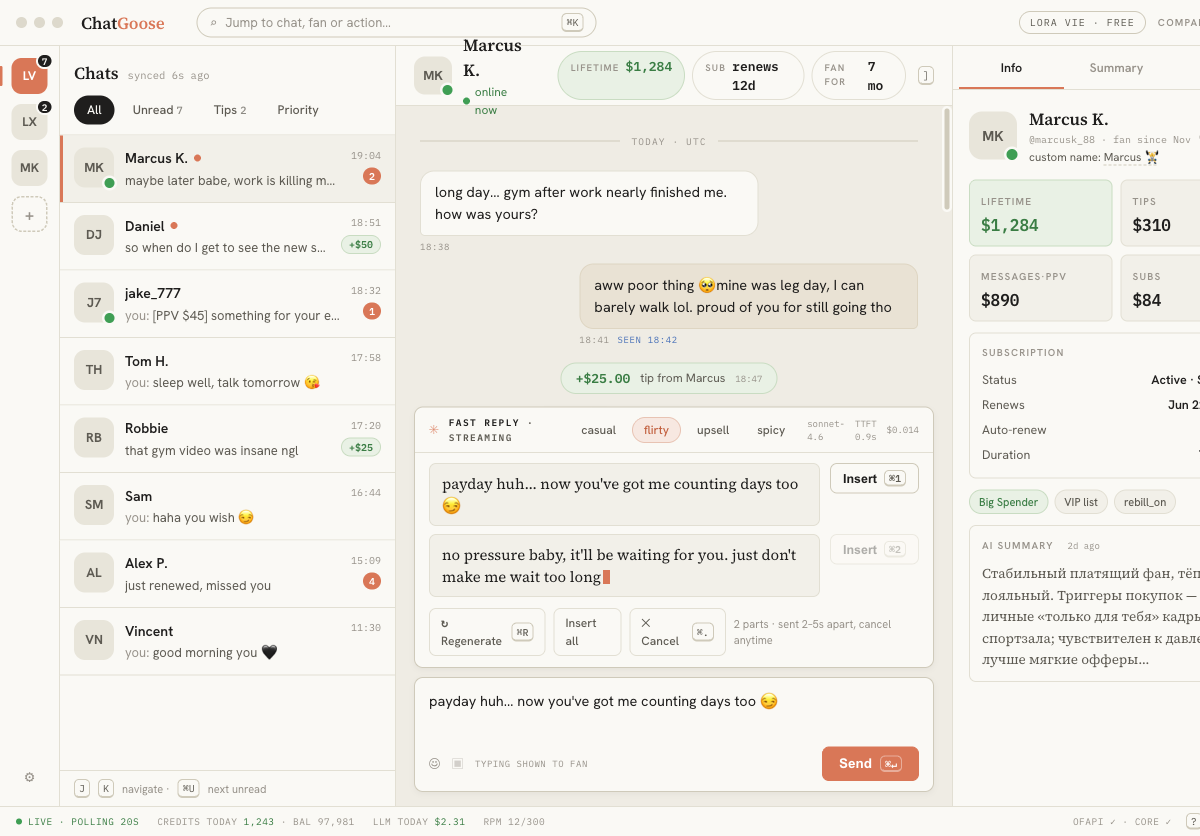
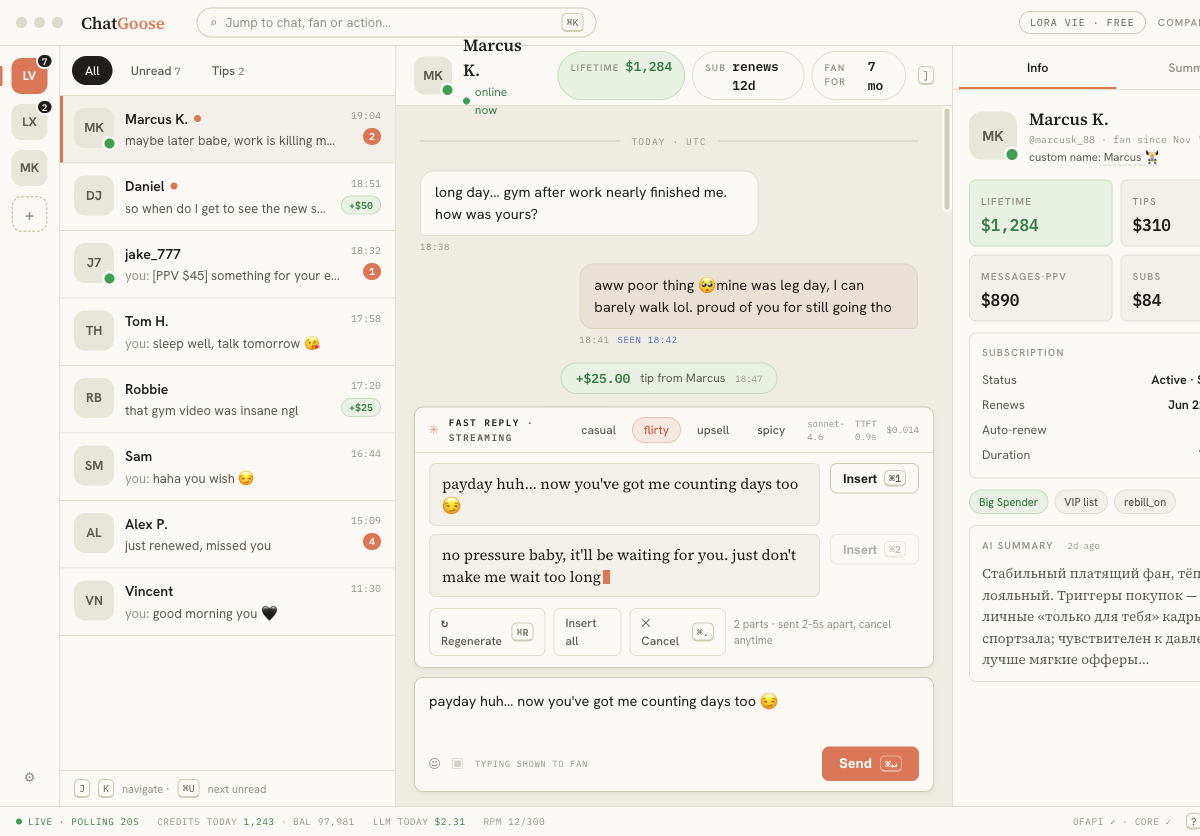
Simplify chat-list header: filters only (All/Unread/Tips), no title/sync label/Priority
Owner: that block was overcomplication. Sync freshness lives only in
the status bar; search/jump only via the cmd-K palette; Priority stays
API-level. Preview refreshed (also reflects Notes tab removal).

diff --git a/docs/mockups/workspace.html b/docs/mockups/workspace.html
@@ -79,7 +79,7 @@
 
   /* ───────── chat list ───────── */
   .chats{border-right:1px solid var(--line); background:var(--bg1); display:flex; flex-direction:column; min-height:0}
-  .chats-head{padding:14px 14px 10px; border-bottom:1px solid var(--line)}
+  .chats-head{padding:10px 12px; border-bottom:1px solid var(--line)}
   .chats-title{display:flex; align-items:baseline; gap:9px; margin-bottom:10px}
   .chats-title h1{font-family:var(--serif); font-size:17px; font-weight:600}
   .chats-title .num{font-size:10.5px; color:var(--t-low)}
@@ -304,12 +304,10 @@
     <!-- chat list -->
     <section class="chats">
       <div class="chats-head">
-        <div class="chats-title"><h1>Chats</h1><span class="num">synced 6s ago</span></div>
         <div class="filters">
           <span class="fchip on">All</span>
           <span class="fchip">Unread<span class="num">7</span></span>
           <span class="fchip">Tips<span class="num">2</span></span>
-          <span class="fchip">Priority</span>
         </div>
       </div>
       <div class="rows">

diff --git a/docs/PRD.md b/docs/PRD.md
@@ -72,7 +72,7 @@ Features marked **[P1]**–**[P7]** map to plan phases. Legacy behavioral detail
 
 ### F2. Inbox / chat list [P1]
 - Per-account chat list via `GET /{account}/chats`: fan name/avatar, last message preview, time, unread count, tip indicator (`hasUnreadTips`). Pinned/priority exist as **server-side filters**; the live chat object carries no per-chat pinned/priority flag (verified 2026-06-10) — badges only if Phase 0 finds a flag source (e.g. `fan.listsStates`).
-- Filters: All / Unread / With tips / Priority. Search by fan name (`query`).
+- Filters: one quiet row — All / Unread / With tips (owner 2026-06-10: minimal list chrome; no list title, no per-list sync label — freshness lives in the status bar; Priority/Pinned stay API-level only). Search/jump via the ⌘K palette, no dedicated search box in the list.
 - Account switcher (chatter may handle several accounts per shift); per-account unread badges; aggregate badge on app icon.
 - Sorting by recency. "Fan waiting" indicator derived from `lastMessage` (`isSentByMe=false` + `unreadMessagesCount>0`); the OFAPI-enriched `lastReplyAt` is used **if available** — live check 2026-06-10 found it absent on a freshly connected account (Phase 0 re-checks after data accumulates; vendor question pending). P7 ping-queue has the same dependency.
 - New-message arrival: list updates via sync engine (P1 polling; SSE push from ~P3 via the parallel core track); toast + optional sound for incoming messages on any handled account.

diff --git a/docs/DESIGN.md b/docs/DESIGN.md
@@ -23,7 +23,7 @@ Status: Draft v1 — 2026-06-10. Binding companion to [PRD.md](PRD.md) §7 (prin
 ```
 
 - **Account rail (A):** avatars with unread badges; switch <500 ms (budget). Aggregate badge on app icon.
-- **Chat list:** ~340 px, rows ~64 px, virtualized. Filter chips (All / Unread / With tips; Priority/Pinned only as server-side filters until a flag source is confirmed — PRD F2). Search. "Fan waiting" indicator per PRD F2.
+- **Chat list:** ~340 px, rows ~64 px, virtualized. Minimal chrome (owner): no list title, no per-list sync label (freshness lives in the status bar only); a single quiet filter row — All / Unread / With tips; search/jump only via the ⌘K palette. "Fan waiting" indicator per PRD F2.
 - **Conversation:** virtualized list; PPV state badges unmissable (purchased = filled, not purchased = outline); tips highlighted; send-state glyphs (sending → sent → seen / failed / unconfirmed). Reply-to context inline.
 - **AI dock:** docked above composer, never a modal — chatter can keep reading/scrolling while it streams; tone selector; per-part Insert/Copy buttons; per-op cost shown after completion; cancel always visible.
 - **Fan panel:** collapsible (`]`), three tabs; money chips (total / tips / messages / subs), auto-renew-off ⇒ churn-risk badge.
